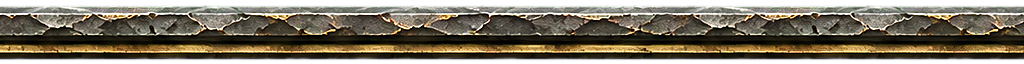
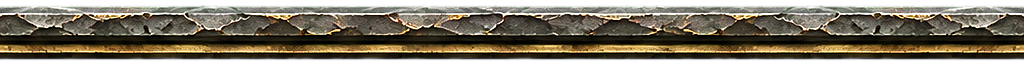
fix(unitframes): hang the Orbs tray on bar 1, clamp it with the rings as one, mirror the arms exactly, rejoin the rails

diff --git a/Tools/media/orbs.py b/Tools/media/orbs.py
@@ -27,7 +27,9 @@ ARM = ((556, 185, 736, 545), (128, 256))
 CREST = ((1152, 146, 1512, 326), (256, 128))
 RAIL_TOP_ROWS = (262, 326)
 RAIL_BOTTOM_ROWS = (452, 516)
-RAIL_SEGMENTS = ((720, 1140), (1530, 1960), (720, 1140))
+# Each segment: left, right, and whether it is mirrored. The strip runs from the left arm's inner edge (736) and ends
+# on the same joint mirrored, because the game draws the right arm as the left one flipped.
+RAIL_SEGMENTS = ((736, 1140, False), (1530, 1927, False), (736, 1140, True))
 RAIL_FADE = 40
 RAIL_SIZE = (1024, 64)
 ALPHA_FLOOR = 4
@@ -79,7 +81,10 @@ def piece(source, spec):
 
 def rail(source, rows):
     top, bottom = rows
-    strips = [source.crop((a, top, b, bottom)) for a, b in RAIL_SEGMENTS]
+    strips = []
+    for a, b, mirrored in RAIL_SEGMENTS:
+        strip = source.crop((a, top, b, bottom))
+        strips.append(strip.transpose(Image.FLIP_LEFT_RIGHT) if mirrored else strip)
     width = sum(s.width for s in strips) - RAIL_FADE * (len(strips) - 1)
     joined = Image.new("RGBA", (width, bottom - top))
     x = 0

diff --git a/Tools/media/make_media.py b/Tools/media/make_media.py
@@ -1023,8 +1023,8 @@ for orb_name, width, height, about in (
         f"Media/Textures/{orb_name}.png", width, height,
         lambda name=orb_name, w=width, h=height: material_pixels(name, w, h),
         about,
-        "Prepared source in Tools/media/materials by Tools/media/orbs.py (cut from the base, rails joined with 40 px cross-fades, premultiplied Lanczos resample, light unsharp mask); prompt below",
-        drawn="2026-11-13", maker="Higgsfield (KSTY-44 job 0b133988, the base); production pass by `Tools/media/orbs.py`",
+        "Prepared source in Tools/media/materials by Tools/media/orbs.py (cut from the base, rails joined from three segments, the last mirrored, with 40 px cross-fades, premultiplied Lanczos resample, light unsharp mask); prompt below",
+        drawn="2026-11-13", maker="Higgsfield (KSTY-44 job 0b133988-204e-4852-89b6-a73ce6714226, the base); production pass by `Tools/media/orbs.py`",
     ))
 
 

diff --git a/Media/PROVENANCE.md b/Media/PROVENANCE.md
@@ -139,10 +139,10 @@ Shapes are white with their coverage in alpha, so the game tints them with `SetV
 | `Media/Textures/HudStyleFrames.png` | 256x128 | The Frames HUD style's picture for the settings window and the setup: the bars and the player and target frames. | `Tools/media/make_media.py`, procedural, no model | centre sampled, disc edges 4x4 supersampled | 2026-11-12 |
 | `Media/Textures/HudStyleOrbs.png` | 256x128 | The Orbs HUD style's picture for the settings window and the setup: the bars between the two orbs and the target bar on top. | `Tools/media/make_media.py`, procedural, no model | centre sampled, disc edges 4x4 supersampled | 2026-11-12 |
 | `Media/Textures/OrbRing.png` | 512x512 | Forged ring around an orb, with its four spikes; its opening is 70.1% of the texture. | Higgsfield (KSTY-44 job 5a7af16a, the ring); production pass by `Tools/media/orbs.py` | Prepared source in Tools/media/materials by Tools/media/orbs.py (centred on its opening, premultiplied Lanczos resample, light unsharp mask); prompt below | 2026-11-12 |
-| `Media/Textures/OrbArm.png` | 128x256 | The Orbs tray's arm: the forged bracket that joins an orb's ring to the tray, the tray hole's left edge at 47.2% across. | Higgsfield (KSTY-44 job 0b133988, the base); production pass by `Tools/media/orbs.py` | Prepared source in Tools/media/materials by Tools/media/orbs.py (cut from the base, rails joined with 40 px cross-fades, premultiplied Lanczos resample, light unsharp mask); prompt below | 2026-11-13 |
-| `Media/Textures/OrbCrest.png` | 256x128 | The Orbs tray's centre crest over the top rail, between the two halves of action bar 2. | Higgsfield (KSTY-44 job 0b133988, the base); production pass by `Tools/media/orbs.py` | Prepared source in Tools/media/materials by Tools/media/orbs.py (cut from the base, rails joined with 40 px cross-fades, premultiplied Lanczos resample, light unsharp mask); prompt below | 2026-11-13 |
-| `Media/Textures/OrbRail.png` | 1024x64 | The Orbs tray's top rail, one strip with cross-faded seams, stretched between the arms. | Higgsfield (KSTY-44 job 0b133988, the base); production pass by `Tools/media/orbs.py` | Prepared source in Tools/media/materials by Tools/media/orbs.py (cut from the base, rails joined with 40 px cross-fades, premultiplied Lanczos resample, light unsharp mask); prompt below | 2026-11-13 |
-| `Media/Textures/OrbRailBottom.png` | 1024x64 | The Orbs tray's bottom rail, one strip with cross-faded seams, stretched between the arms. | Higgsfield (KSTY-44 job 0b133988, the base); production pass by `Tools/media/orbs.py` | Prepared source in Tools/media/materials by Tools/media/orbs.py (cut from the base, rails joined with 40 px cross-fades, premultiplied Lanczos resample, light unsharp mask); prompt below | 2026-11-13 |
+| `Media/Textures/OrbArm.png` | 128x256 | The Orbs tray's arm: the forged bracket that joins an orb's ring to the tray, the tray hole's left edge at 47.2% across. | Higgsfield (KSTY-44 job 0b133988-204e-4852-89b6-a73ce6714226, the base); production pass by `Tools/media/orbs.py` | Prepared source in Tools/media/materials by Tools/media/orbs.py (cut from the base, rails joined from three segments, the last mirrored, with 40 px cross-fades, premultiplied Lanczos resample, light unsharp mask); prompt below | 2026-11-13 |
+| `Media/Textures/OrbCrest.png` | 256x128 | The Orbs tray's centre crest over the top rail, between the two halves of action bar 2. | Higgsfield (KSTY-44 job 0b133988-204e-4852-89b6-a73ce6714226, the base); production pass by `Tools/media/orbs.py` | Prepared source in Tools/media/materials by Tools/media/orbs.py (cut from the base, rails joined from three segments, the last mirrored, with 40 px cross-fades, premultiplied Lanczos resample, light unsharp mask); prompt below | 2026-11-13 |
+| `Media/Textures/OrbRail.png` | 1024x64 | The Orbs tray's top rail, one strip with cross-faded seams, stretched between the arms. | Higgsfield (KSTY-44 job 0b133988-204e-4852-89b6-a73ce6714226, the base); production pass by `Tools/media/orbs.py` | Prepared source in Tools/media/materials by Tools/media/orbs.py (cut from the base, rails joined from three segments, the last mirrored, with 40 px cross-fades, premultiplied Lanczos resample, light unsharp mask); prompt below | 2026-11-13 |
+| `Media/Textures/OrbRailBottom.png` | 1024x64 | The Orbs tray's bottom rail, one strip with cross-faded seams, stretched between the arms. | Higgsfield (KSTY-44 job 0b133988-204e-4852-89b6-a73ce6714226, the base); production pass by `Tools/media/orbs.py` | Prepared source in Tools/media/materials by Tools/media/orbs.py (cut from the base, rails joined from three segments, the last mirrored, with 40 px cross-fades, premultiplied Lanczos resample, light unsharp mask); prompt below | 2026-11-13 |
 <!-- END make_media -->
 
 ## Card materials (study sources, 2026-11-10)
@@ -524,6 +524,6 @@ LEE-94 core-mask correction (2026-11-10): acceptance-2 uses a white core above R
 
 `OrbRing` is the forged ring generated with Higgsfield for the KSTY-44 mock-ups on 2026-11-12 (job `5a7af16a-d840-4e86-af19-af14e99fc431`), original art made for this project, not extracted or traced from any game. Its prompt began "Game user interface asset, front-on orthographic"; KSTY-44 kept only that much of the text. The source (2028x2032 RGBA) stays on the owner's MacBook at `~/.capy/work/KSTY-44/mock/assets/ring.png` and is not committed. `Tools/media/orbs.py` is the production pass: it centres the ring on its opening (measured at 290, 304 to 1723, 1729 in the source) in a transparent square, resamples it to 512x512 with premultiplied alpha and Lanczos so the spikes carry no dark fringe, applies a light unsharp mask (radius 1.2, 60%, threshold 2) and zeroes alpha below 4. The result is the prepared source `Tools/media/materials/OrbRing.png`, which `make_media.py` exports unchanged. The opening is 70.1% of the texture.
 
-`OrbArm`, `OrbCrest`, `OrbRail` and `OrbRailBottom` are the Orbs tray, cut from the base generated with Higgsfield for the KSTY-44 mock-ups on 2026-11-12 (job `0b133988`), original art made for this project, not extracted or traced from any game. The source (2663x668 RGBA) stays on the owner's MacBook at `~/.capy/work/KSTY-44/mock/assets/base.png` and is not committed. `Tools/media/orbs.py` cuts the arm (556, 185 to 736, 545) and the crest (1152, 146 to 1512, 326) from it, joins the top rail (rows 262 to 326) and the bottom rail (rows 452 to 516) from the segments 720 to 1140, 1530 to 1960 and 720 to 1140 with 40 px cross-faded seams, resamples each with premultiplied alpha and Lanczos, applies the same light unsharp mask as the ring and zeroes alpha below 4. `Layouts.OrbsTray` in `Core/Setup/Layouts.lua` places the pieces from the same source coordinates, fitting the tray's hole (641, 320 to 2023, 460) round action bar 1.
+`OrbArm`, `OrbCrest`, `OrbRail` and `OrbRailBottom` are the Orbs tray, cut from the base generated with Higgsfield for the KSTY-44 mock-ups on 2026-11-12 (job `0b133988-204e-4852-89b6-a73ce6714226`), original art made for this project, not extracted or traced from any game. Its prompt began "Game user interface asset, front-on orthographic", like the ring's; KSTY-44 kept only that much of the text. The source (2663x668 RGBA) stays on the owner's MacBook at `~/.capy/work/KSTY-44/mock/assets/base.png` and is not committed. `Tools/media/orbs.py` cuts the arm (556, 185 to 736, 545) and the crest (1152, 146 to 1512, 326) from it. Each rail (rows 262 to 326 on top, 452 to 516 below) is the segment 736 to 1140, then 1530 to 1927, then 736 to 1140 mirrored, joined with 40 px cross-faded seams, so both ends meet the arm's joint the way the game draws the right arm, as the left one flipped. Each piece is resampled with premultiplied alpha and Lanczos, given the same light unsharp mask as the ring, and has alpha below 4 zeroed. `Layouts.OrbsTray` in `Core/Setup/Layouts.lua` places the pieces from the same source coordinates, fitting the tray's hole (641, 320 to 2023, 460) round action bar 1.
 
 `OrbMask`, `OrbBack`, `OrbGlass`, `OrbLiquid` and `OrbSurface` are procedural, drawn by `make_media.py` from the KSTY-44 mock-up's CSS gradients (the orb's dark glass, its rim and four glints) and a cylinder shading for the liquid.
